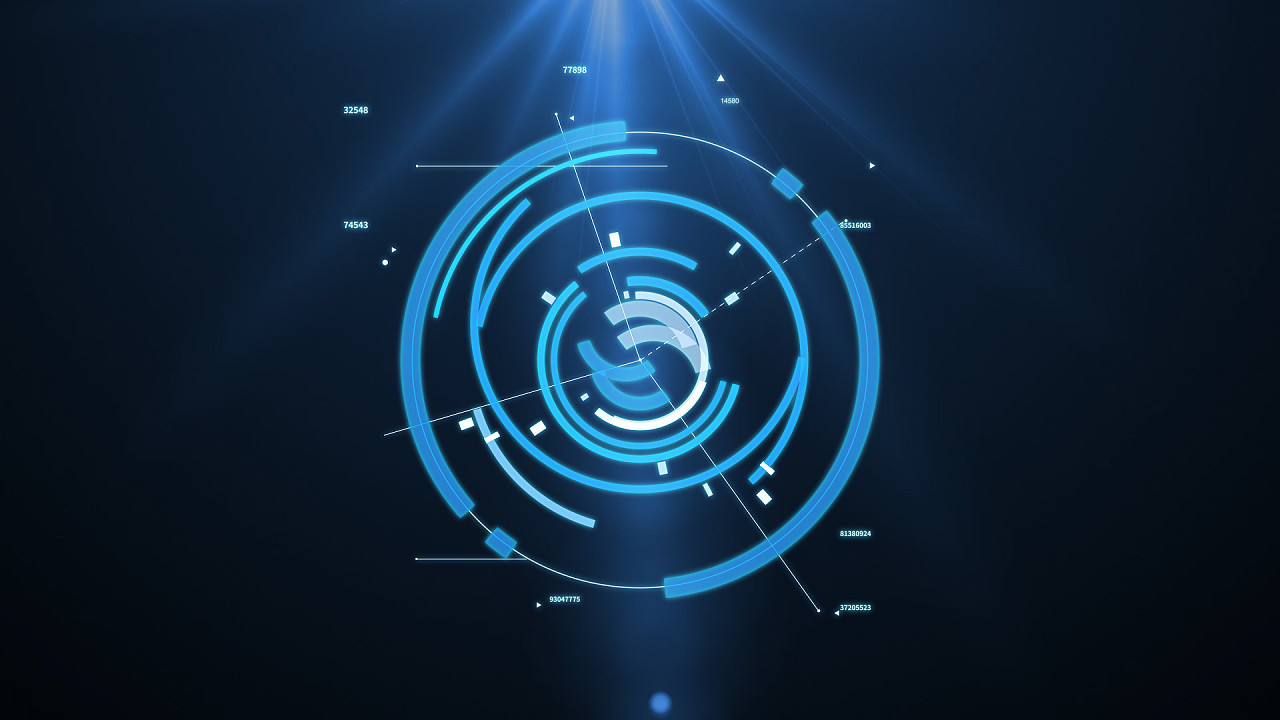
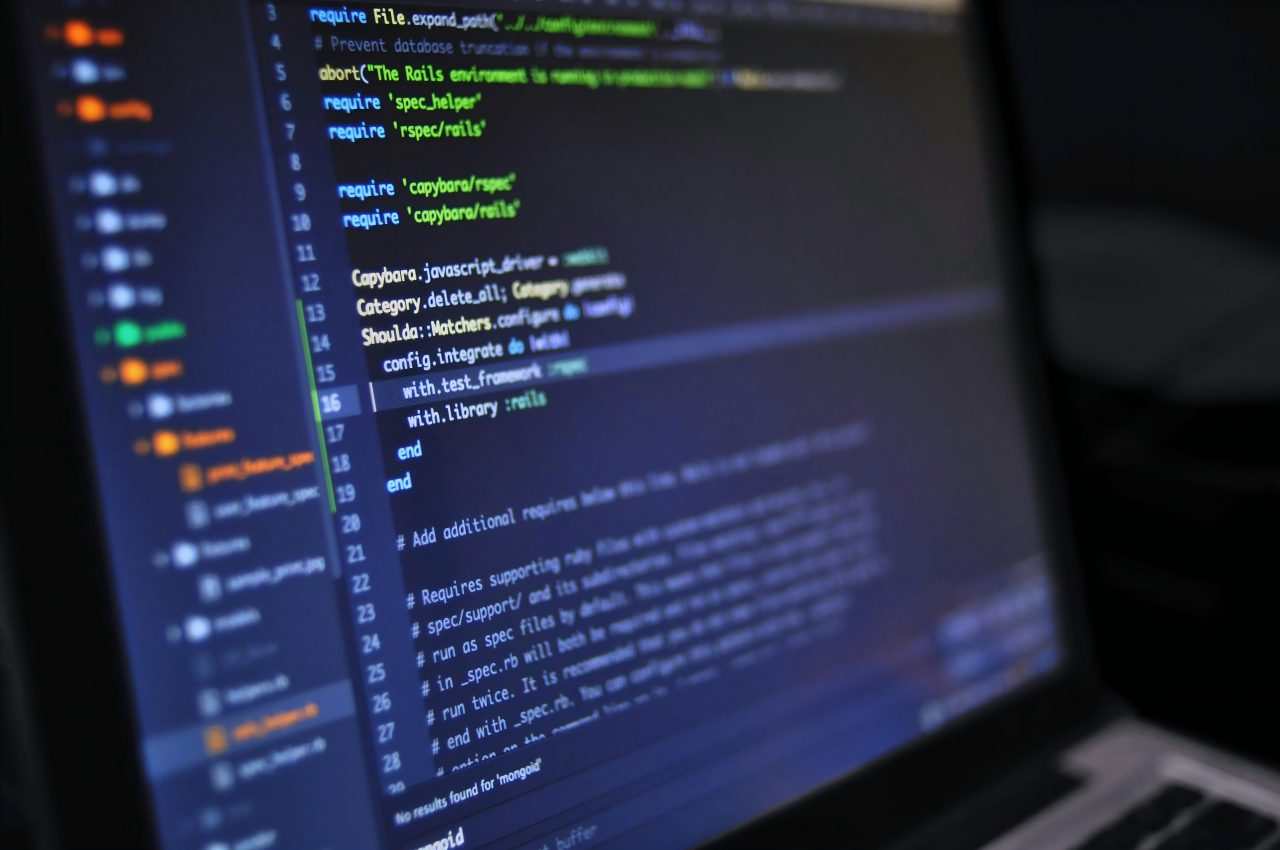
修改一些小错误和增加2个配置项

diff --git a/resources/views/pages/login-plus.blade.php b/resources/views/pages/login-plus.blade.php
@@ -129,10 +129,10 @@
         <div class="content-front"></div>
         <div class="login-description">
             <p class="lead">
-                快速开发后台框
+                {!! config('admin.slogan') !!}
             </p>
             <p>
-                锐壹科技
+                {!! config('admin.company') !!}
             </p>
         </div>
     </div>
@@ -144,7 +144,7 @@
 
             <div class="login-box">
                 <div class="login-logo mb-2">
-                    <h4 class="mt-0">让程序员工作更简单高效</h4>
+                    <h4 class="mt-0">{!! config('admin.slogan') !!}</h4>
                     <p class="login-box-msg mt-1 mb-1">{{ __('admin.welcome_back') }}</p>
                 </div>
                 <div class="card card-primary card-outline card-outline-tabs" style="box-shadow:0 0 1px rgba(0,0,0,.125),0 1px 3px rgba(0,0,0,.2)">

diff --git a/config/admin.php b/config/admin.php
@@ -388,4 +388,9 @@ return [
         // 'reseller'  => true,
         // 'brand'     => true,
     ],
+    /*
+    |更多的配置项
+    */
+    'slogan'                    => '快速开发后台框架',// 口号
+    'company'                   => '锐壹科技',// 公司名称
 ];

diff --git a/src/Console/UpdateCommand.php b/src/Console/UpdateCommand.php
@@ -12,7 +12,7 @@ class UpdateCommand extends Command
 
     public function handle()
     {
-        $this->call('admin:publish', [
+        $this->call('ryadmin:publish', [
             '--assets'     => true,
             '--migrations' => true,
             '--lang'       => true,

diff --git a/README.md b/README.md
@@ -1,6 +1,37 @@
+![LOGO](./resources/dist/images/logo-text.png "logo")
+# 安装使用
 
-<div align="center">
-    <img src="resources/dist/images/logo-text.png" height="100"> 
-</div>
-<br>
+## 1.先安装laravel框架.
+``` bash
+composer create-project --prefer-dist "laravel/laravel" laravel 
+```
+## 2.按照以上步骤安装好框架后进行框架配置和初始化，其中主要配置下面的数据库信息
+> DB_CONNECTION=mysql
+DB_HOST=127.0.0.1
+DB_PORT=3306
+DB_DATABASE=数据库名字
+DB_USERNAME=数据库账号
+DB_PASSWORD=你的mysql联接密码
+
+## 3.再进行安装本框架
+```bash
+composer require ruiyi/laadmin
+```
+
+## 4.再执行发布命令
+```bash
+php artisan ryadmin:publish
+```
+>该命令会生成相关的配置文件，文件位置位于：config/admin,可以在里面修改安装的地址、数据库连接、以及表名，建议都是用默认配置不修改。
+
+## 5.再执行安装命令
+```bash
+php artisan ryadmin:install
+```
+>执行该命令后，会自动安装并且自动生成相关的目录
+
+## 6.最后执行数据库迁移命令即可安装完成！
+```bash
+php artisan migrate
+```
 
